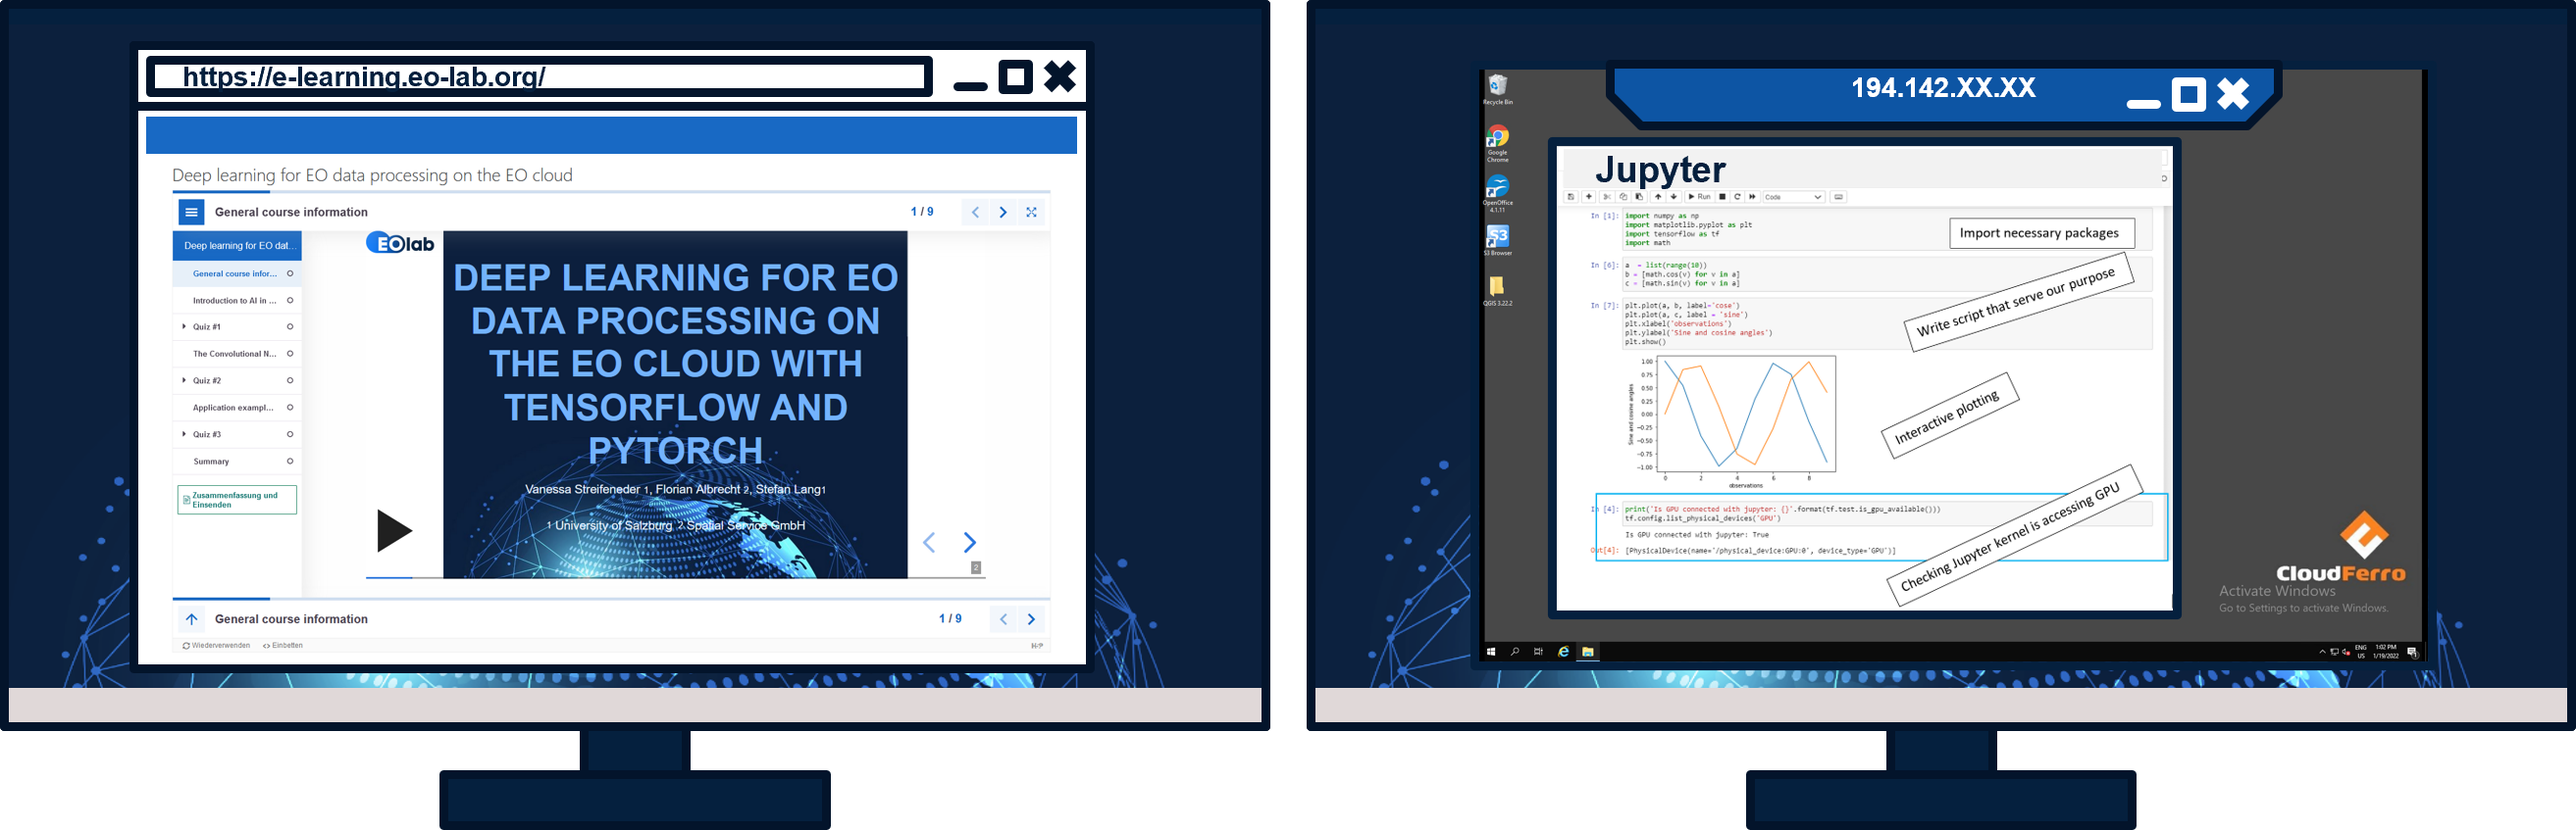
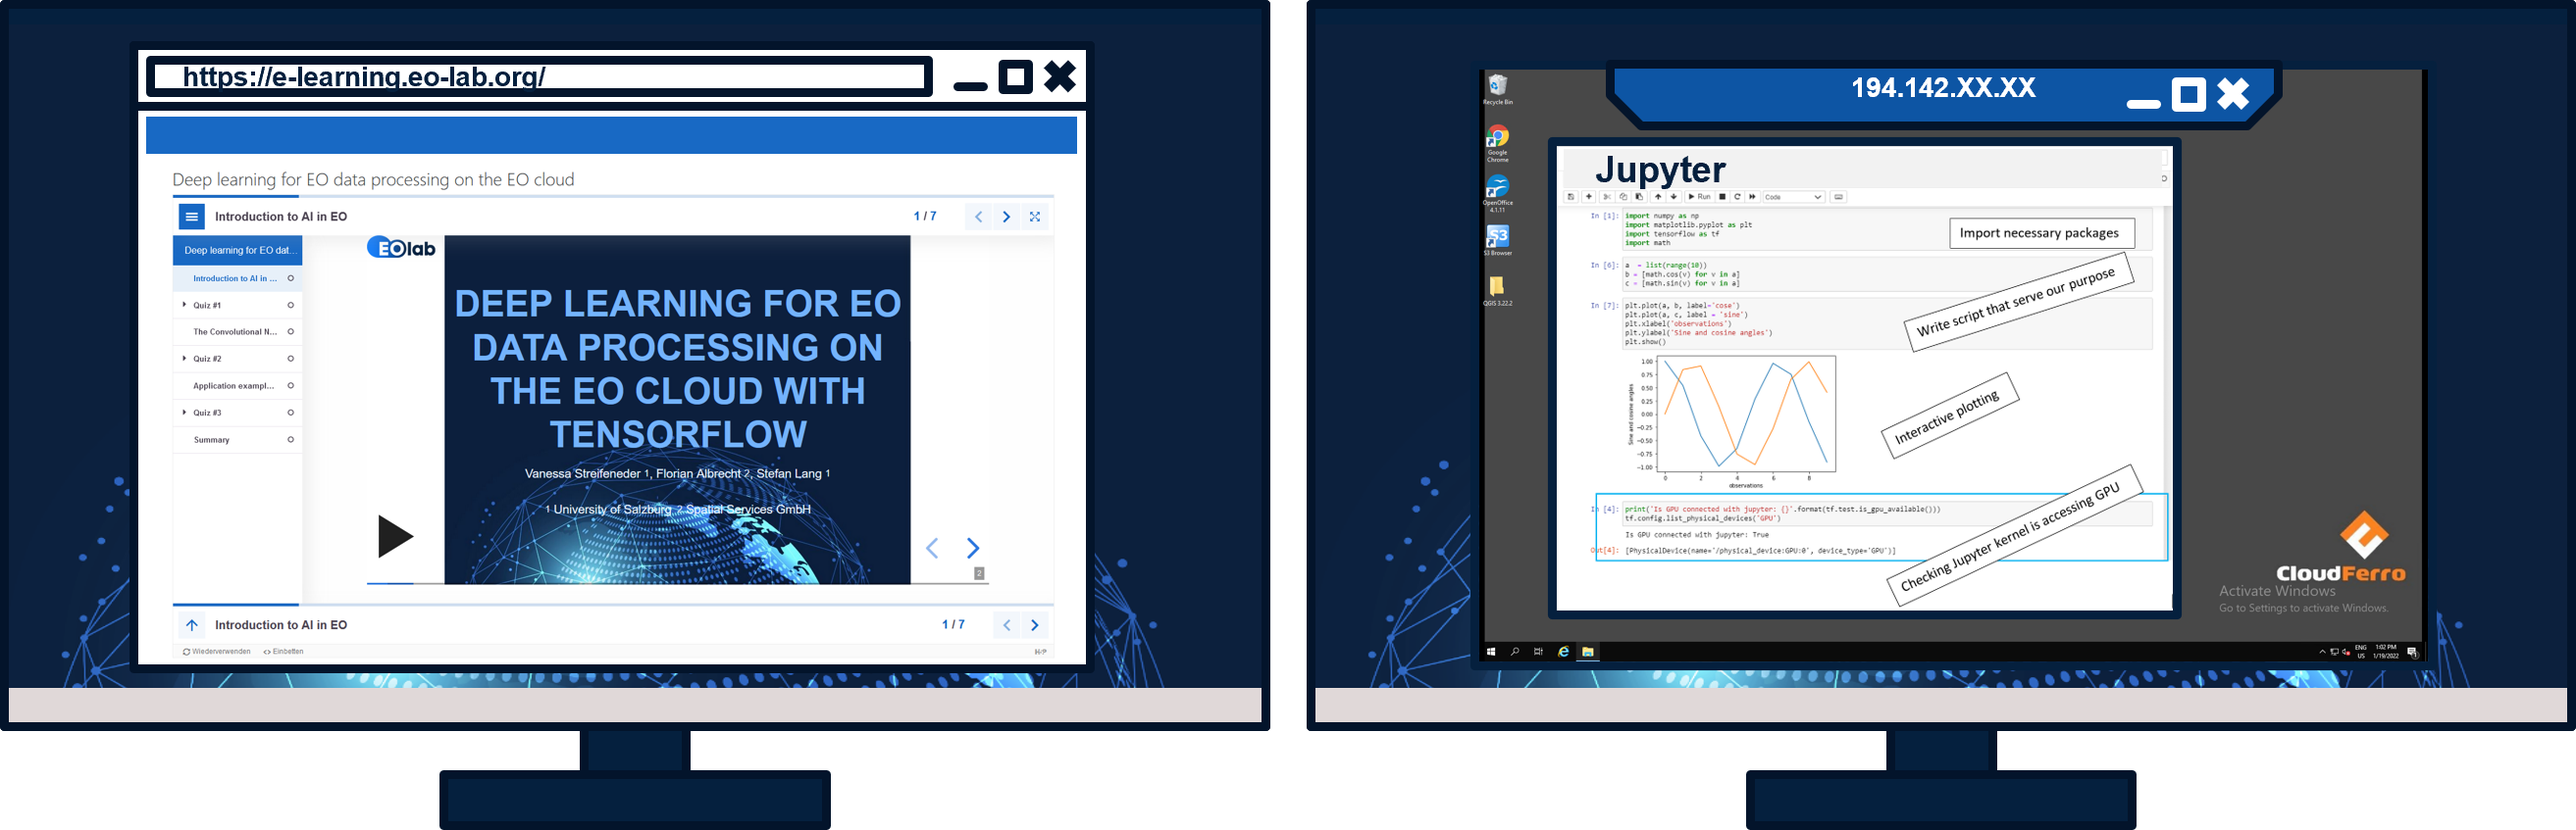
Figure (work setup) and metadata changed

Changed region(s): [[0.0625, 0.1842, 0.4059, 0.7981], [0.0625, 0.4604, 0.0937, 0.5525], [0.0625, 0.5832, 0.1249, 0.6139]]

diff --git a/index.html b/index.html
@@ -12,14 +12,14 @@
 	<meta property="dc:title" content="EOlab Deep learning">
 	<meta property="dc:creator" content="Vanessa Streifeneder & Florian Albrecht, University of Salzburg, SpaSe">
 	<meta property="dc:publisher" content="University of Salzburg">
-	<meta property="dc:subject" content="Deep learning for EO data processing on the EO Cloud with TensorFlow and Pytorch">
+	<meta property="dc:subject" content="Deep learning for EO data processing on the EO Cloud with TensorFlow">
 	
 	<!-- Metadata need to be updated -->
 
 	<meta property="dc:abstract"
 		content="">
 
-	<meta property="dc:tableOfContents" content="(1) Introduction; (2) Image interpretation and perception; (3) Basic concepts of hierarchy theory; (4) Knowledge representation; (5) Image segmentation; (6) Object-based classification (incl. class modelling); (7) Accuracy assessment (incl. object validity; (8) Outlook: OBIA for non-image data">
+	<meta property="dc:tableOfContents" content="(1) Preface; (2) Introduction to Deep Learning (DL) for Earth observation (EO); (3) The Convolutional Neural Network architecture; (4) Application example with TensorFlow; (5) Summary">
 	<meta property="dc:description"
 		content="">
 	<meta property="dc:contributor" content="Vanessa Streifeneder,Florian Albrecht,Stefan Lang">
